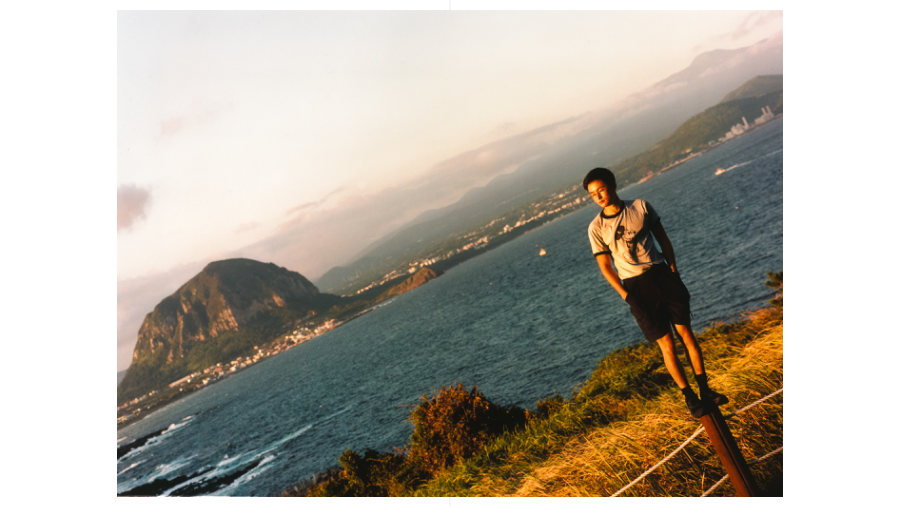
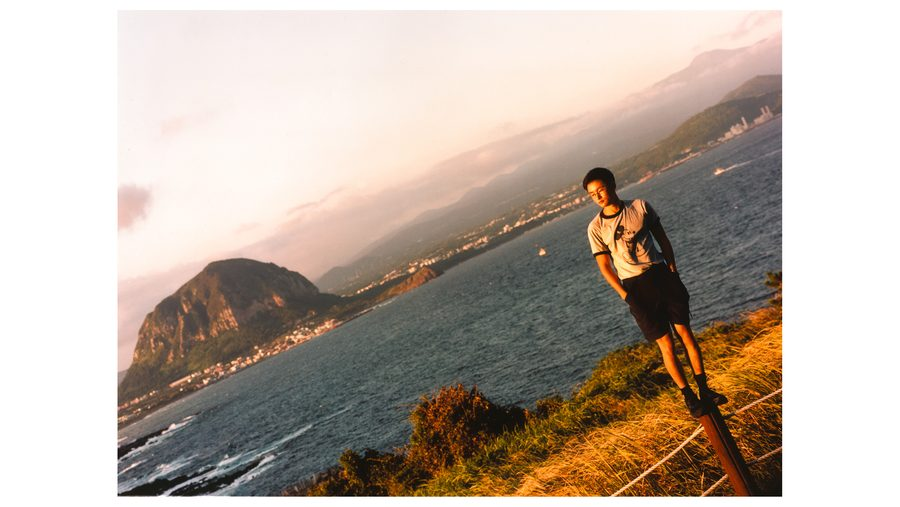
Update Ieo-do photo 32 from ㄹㅇ finals and refresh book/catalog.

diff --git a/index.html b/index.html
@@ -42,7 +42,7 @@
   </head>
   <body class="main-page">
     <nav class="collection-nav" id="collection-nav">
-      <!-- collections.json?v=20261114c7 를 통해 자동으로 메뉴가 렌더링됩니다. -->
+      <!-- collections.json?v=20261115c32 를 통해 자동으로 메뉴가 렌더링됩니다. -->
     </nav>
 
     <header class="site-header">
@@ -151,7 +151,7 @@
         }
 
         try {
-          const res = await fetch("collections.json?v=20261114c7", { cache: "no-store" });
+          const res = await fetch("collections.json?v=20261115c32", { cache: "no-store" });
           if (!res.ok) return;
           const collections = await res.json();
           if (!Array.isArray(collections)) return;

diff --git a/collection.html b/collection.html
@@ -515,7 +515,7 @@
         const spreads = await loadBookSpreads(colId);
         const flat = [];
         const maxPages = 90;
-        const cacheVer = "20261114catalog24";
+        const cacheVer = "20261115c32";
 
         const clamp01 = (n, fallback) => {
           const v = Number(n);
